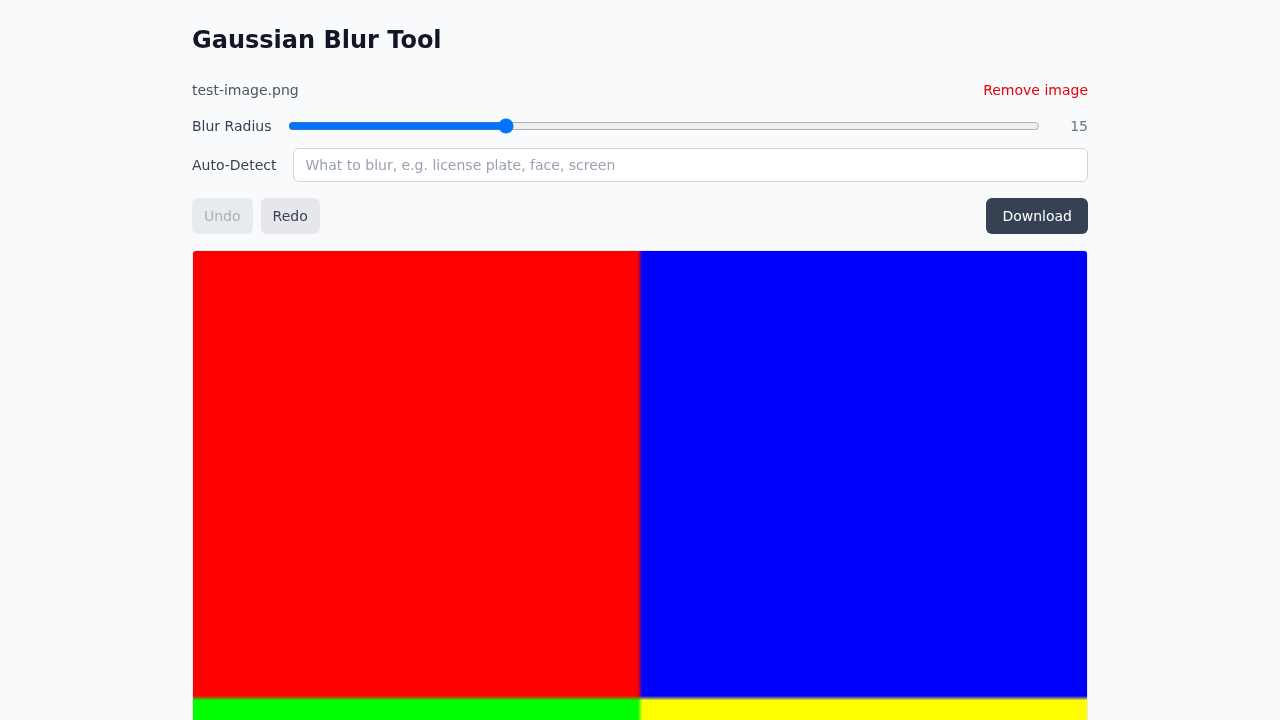
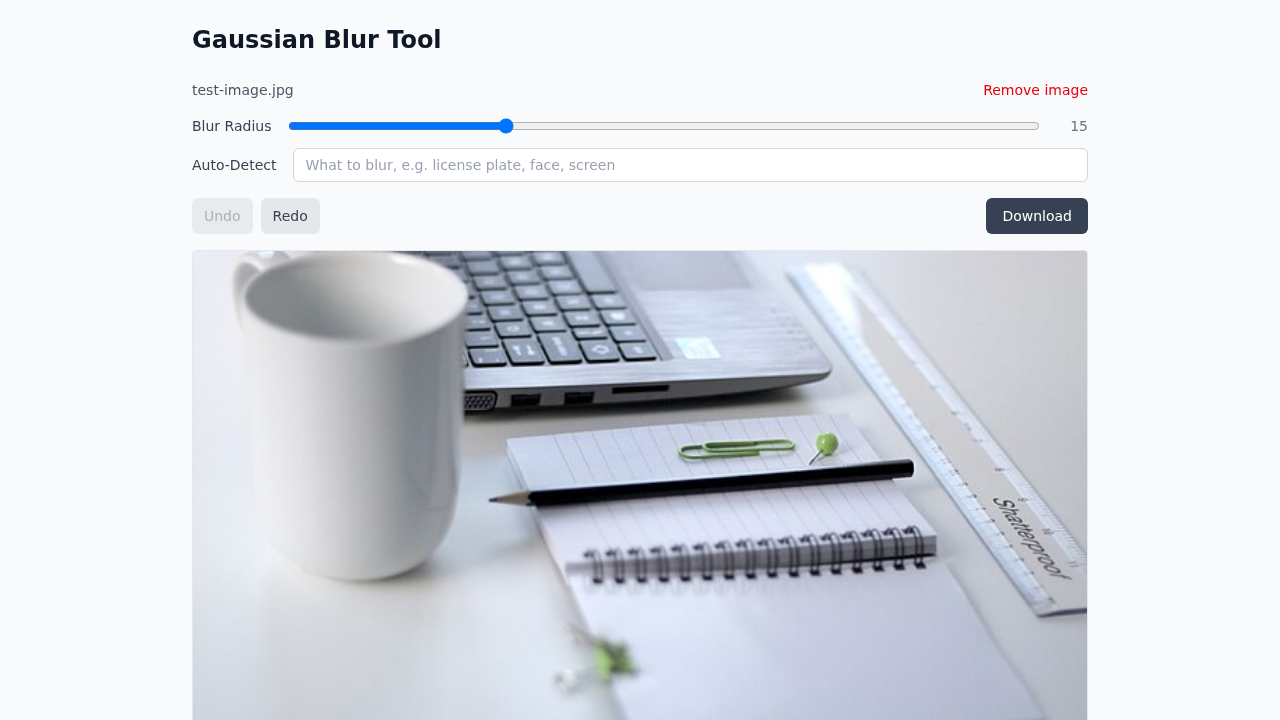
test: replace synthetic test image with real laptop photo
The previous test image was four solid colour quadrants, which made
gaussian blur invisible (averaging identical pixels produces no
visible change). Replaced with a CC0-licensed photograph from
Wikimedia Commons / Unsplash showing a laptop, mug, notepad and
ruler on a desk — providing real texture so blur effects are
visibly meaningful, plus recognisable objects for the auto-detect
smoke test.

Snapshots and README screenshots regenerated against the new image.

Source: https://commons.wikimedia.org/wiki/File:Ruler_and_laptop_on_a_desk_(Unsplash).jpg
License: CC0 1.0 Universal Public Domain Dedication

diff --git a/e2e/app.spec.ts b/e2e/app.spec.ts
@@ -3,7 +3,7 @@ import { fileURLToPath } from 'node:url'
 import { expect, test } from '@playwright/test'
 
 const __dirname = path.dirname(fileURLToPath(import.meta.url))
-const testImage = path.join(__dirname, 'fixtures', 'test-image.png')
+const testImage = path.join(__dirname, 'fixtures', 'test-image.jpg')
 
 async function uploadImage(page: import('@playwright/test').Page) {
   const fileChooserPromise = page.waitForEvent('filechooser')
@@ -25,7 +25,7 @@ test.describe('Gaussian Blur Tool', () => {
     await page.goto('/')
     await uploadImage(page)
 
-    await expect(page.getByText('test-image.png')).toBeVisible()
+    await expect(page.getByText('test-image.jpg')).toBeVisible()
     await expect(page.getByRole('slider')).toBeVisible()
     await expect(page.getByTestId('detect-query')).toBeVisible()
     await expect(page.getByTestId('undo-button')).toBeVisible()
@@ -184,17 +184,21 @@ test.describe('Auto-Detect Smoke Tests', () => {
     await expect(page.getByTestId('detecting-status')).toContainText('person')
   })
 
-  test('completes detection and shows result or no-match message', async ({ page }) => {
-    test.setTimeout(120000)
+  test('completes detection round-trip on a real image', async ({ page }) => {
+    test.setTimeout(180000)
 
     await page.goto('/')
     await uploadImage(page)
 
     const queryInput = page.getByTestId('detect-query')
-    await queryInput.fill('square')
+    await queryInput.fill('laptop')
 
-    await expect(page.getByTestId('detecting-status')).toBeHidden({ timeout: 120000 })
+    // Wait for model download and detection to complete
+    await expect(page.getByTestId('detecting-status')).toBeHidden({ timeout: 180000 })
 
+    // Either we get a detection result or a no-match message — both are
+    // valid outcomes. This smoke test verifies the round-trip works,
+    // not the model's accuracy.
     const noMatch = page.getByText(/no matching objects/i)
     const blurAll = page.getByTestId('blur-all-detected')
     await expect(noMatch.or(blurAll)).toBeVisible()

diff --git a/e2e/fixtures/README.md b/e2e/fixtures/README.md
@@ -1,0 +1,15 @@
+# Test fixtures
+
+## test-image.jpg
+
+A photograph of a laptop, mug, notepad, pen, and ruler on a desk.
+
+- **Source:** [Wikimedia Commons](https://commons.wikimedia.org/wiki/File:Ruler_and_laptop_on_a_desk_(Unsplash).jpg)
+- **Originally from:** [Unsplash](https://unsplash.com/)
+- **License:** [CC0 1.0 Universal Public Domain Dedication](https://creativecommons.org/publicdomain/zero/1.0/)
+- **Dimensions:** 640×427
+
+This image is used for visual regression tests and the auto-detect smoke
+test. It contains real texture (so blur is visibly different from the
+original) and recognisable objects (laptop, cup, book) that the OWLv2
+zero-shot detection model can find.
